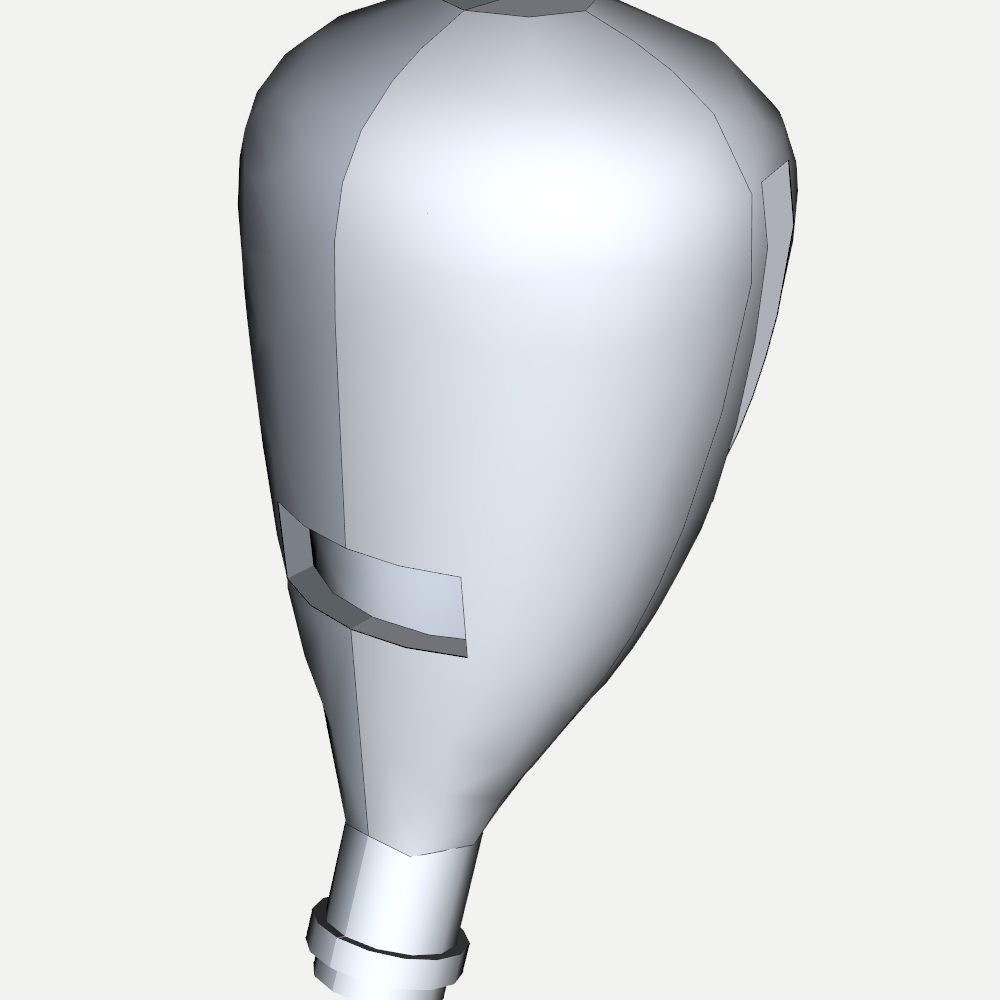
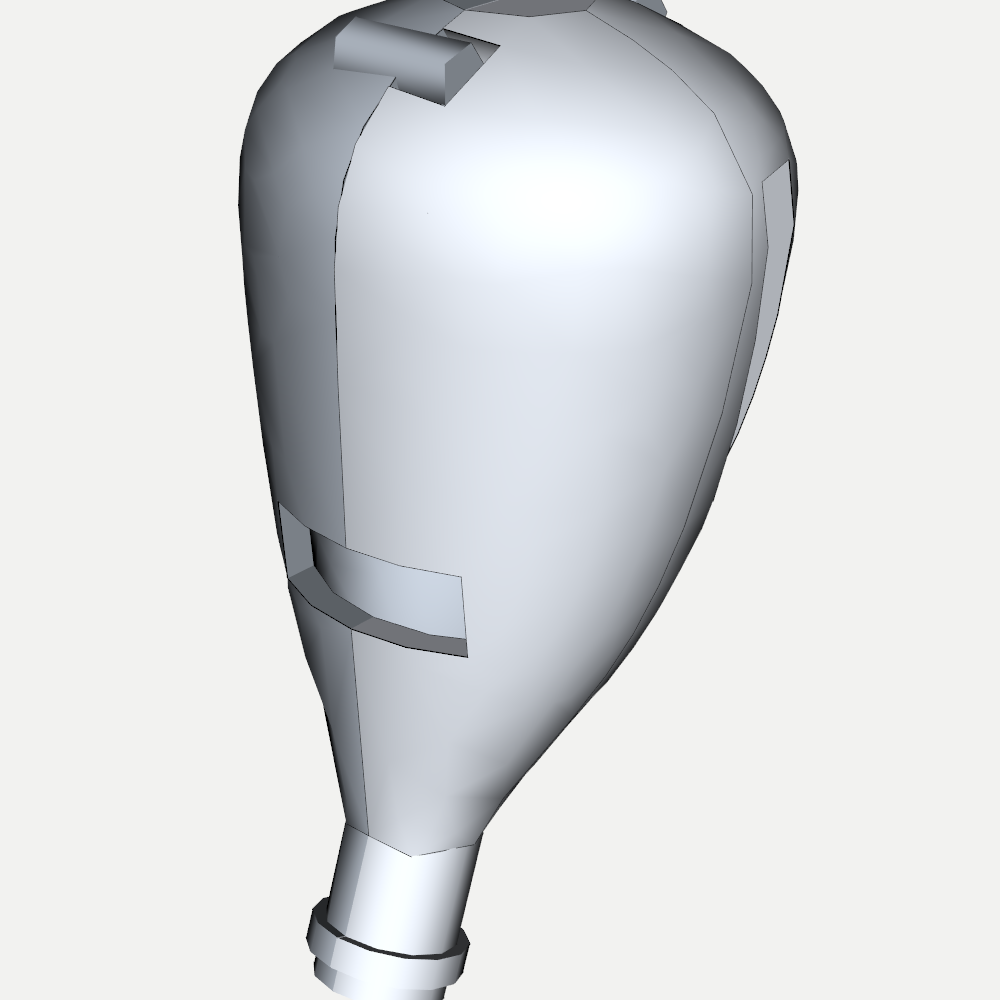
Add alignment pegs across the enclosure's left/right seam
First real progress on the "no snap-fit/screw-boss features" item that's
been listed as open since v1. Two locating pegs (1.2mm peg, 1.6mm
clearance socket) near the top of the head at the ellipse's front/back
edges, where the seam actually has touching wall material.

Real finding along the way: through a wide cross-section (the head,
z~12-17) the X=0 split plane passes through open hollow cavity, not
facing wall material -- the two halves only truly meet near each
station's front/back edges, where the ellipse boundary itself crosses
x=0. Found by point-classification scanning, not assumed; an initial
placement guess at the ellipse's y-center would have tried to bridge
an open air gap. Each final peg site verified for peg presence, socket
clearance, and that the socket doesn't cut past the original wall's
outer surface.

Claude-Session: https://claude.ai/code/session_01YTbrWH9Gt2quSDLgz6Te5V

diff --git a/mechanical_cad/haven_dev_board_enclosure_v1/inear_v3_lofted/generate_inear_enclosure_v3.py b/mechanical_cad/haven_dev_board_enclosure_v1/inear_v3_lofted/generate_inear_enclosure_v3.py
@@ -103,6 +103,27 @@ body = body.cut(mic_port).cut(led_port)
 left_half = body.intersect(cq.Workplane("XY").box(200, 200, 200, centered=(True, True, True)).translate((-100, 0, 0)))
 right_half = body.cut(left_half)
 
+# ---- Alignment pegs across the seam ----
+# The X=0 split plane only has real touching wall material near the front/
+# back edges of each elliptical station (where the ellipse's own boundary
+# crosses x=0) -- through the middle of a wide cross-section (e.g. the
+# "head" at z~12-17) the two halves face an open hollow cavity across the
+# seam, not each other. Confirmed by direct point-classification (not
+# assumed): near the top of the head (z=15, ry~5.2 interpolated), solid
+# material spans a wide x range at y=+-5.0 (the front/back edges), so two
+# pegs there -- one near the front edge, one near the back -- give a real,
+# verified two-point registration spanning a wide baseline (resists
+# rotation, not just translation).
+PEG_R, SOCKET_R = 1.2, 1.6
+PEG_SITES = [(5.0, 15.5), (-5.0, 15.5)]  # (y, z)
+
+for peg_y, peg_z in PEG_SITES:
+    peg = cq.Workplane("YZ").workplane(offset=-3).center(peg_y, peg_z).circle(PEG_R).extrude(5)
+    left_half = left_half.union(peg)
+
+    socket = cq.Workplane("YZ").workplane(offset=-0.5).center(peg_y, peg_z).circle(SOCKET_R).extrude(3)
+    right_half = right_half.cut(socket)
+
 # ---- Real internal components: compact board + battery, both in the
 #      widest band (z ~ 5 to 12) ----
 PCB_L, PCB_W, PCB_T = 16.0, 13.0, 1.0
@@ -121,6 +142,20 @@ right_half.val().exportStep(f"{OUT}/haven_enclosure_inear_right_v3.step")
 print("--- shell split sanity check (both halves should be comparable, not a sliver) ---")
 lv, rv = left_half.val().Volume(), right_half.val().Volume()
 print(f"left volume: {lv:.1f} mm3, right volume: {rv:.1f} mm3, ratio: {max(lv,rv)/min(lv,rv):.2f}x")
+
+print("--- alignment peg verification ---")
+left_shape, right_shape = left_half.val(), right_half.val()
+for peg_y, peg_z in PEG_SITES:
+    peg_present = state(left_shape, 1.0, peg_y, peg_z) == "IN"
+    socket_clear = state(right_shape, 1.0, peg_y, peg_z) == "OUT"
+    # peg tip (x=2) must not poke past right_half's real outer surface --
+    # compare against the pre-peg body at a point just past the socket's
+    # far end (x=2.7, inside the socket radius) to confirm we're still
+    # inside material that existed before this feature was added.
+    within_original_material = state(body.val(), 2.7, peg_y, peg_z) == "IN"
+    print(f"  site (y={peg_y}, z={peg_z}): peg={'PASS' if peg_present else 'FAIL'}, "
+          f"socket clearance={'PASS' if socket_clear else 'FAIL'}, "
+          f"stays within original wall={'PASS' if within_original_material else 'FAIL'}")
 
 bb = body.val().BoundingBox()
 print("bbox:", round(bb.xlen, 1), round(bb.ylen, 1), round(bb.zlen, 1))

diff --git a/mechanical_cad/haven_dev_board_enclosure_v1/inear_v3_lofted/README.md b/mechanical_cad/haven_dev_board_enclosure_v1/inear_v3_lofted/README.md
@@ -66,11 +66,26 @@ a plain point-check did on v2's curved surface), and the PCB/battery
 envelopes are checked point-by-point against the real solid geometry for
 collisions. All pass with 0 collisions found.
 
+## Alignment pegs across the seam
+
+Added two locating pegs (1.2mm radius, 1.6mm-radius clearance socket) to
+register the left/right halves during assembly. Finding worth recording:
+the X=0 split plane only has real touching wall material near the front/
+back edges of a given cross-section — through the middle of a wide
+station (e.g. the head, z~12-17) the two halves face an open hollow
+cavity across the seam, not each other, since the split cuts through the
+ellipse's interior, not its wall. Confirmed by direct point-classification
+(scanning along x at fixed y/z), not assumed. The pegs sit near the top of
+the head (z≈15.5) at the ellipse's front and back edges (y≈±5.0), where a
+scan confirmed solid material spans the seam — a wide baseline that
+resists rotation, not just translation, between the two halves. Each site
+is verified for peg presence, socket clearance, and that the socket
+doesn't cut past the original wall's outer surface.
+
 ## Still open
 
 Same caveats as the earlier versions: no real ear-fit/anthropometric data,
-no snap-fit/screw-boss features holding the (now-correct) left/right
-halves together, no DFM pass,
+no DFM pass,
 placeholder PCB/battery envelopes (not the real routed board outline —
 still needs the L-shaped/notched consideration from the BTE version's
 findings once a real board layout exists). Also still open: whether
